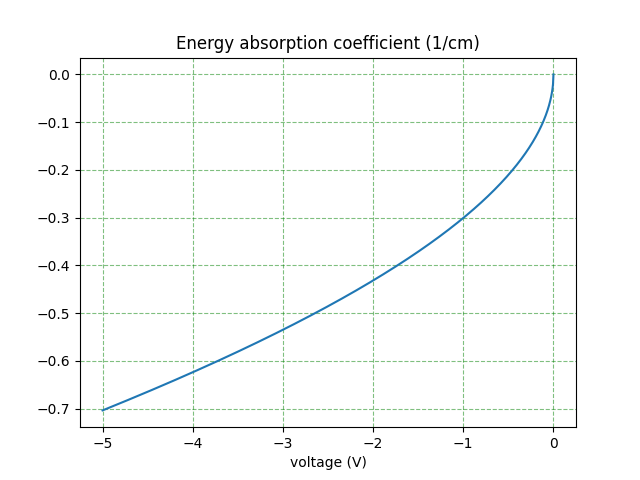
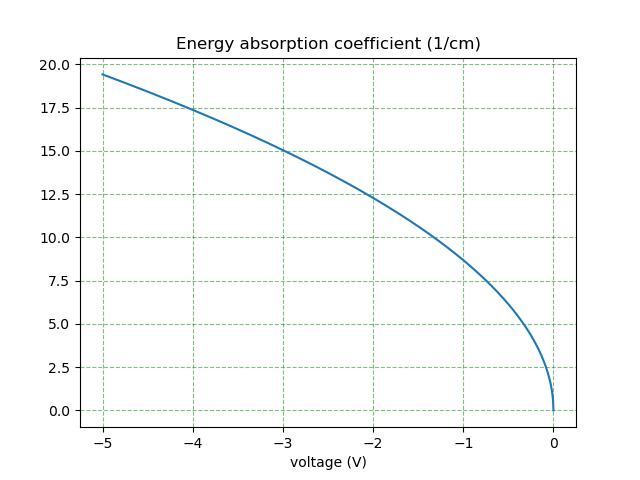
check absorption

diff --git a/eye_test_v2.py b/eye_test_v2.py
@@ -198,7 +198,7 @@ v = driver(f_drive=f_drive,
            Cp=Cpad,
            segment=segment)
 V = np.linspace(-5,0,1000)
-ploting(V,dB(ring_mod.alpha(V)/ring_mod.alpha(0)),x_label="voltage (V)",title="Energy absorption coefficient (1/cm)",filename="alpha_V")
+ploting(V,dB(np.exp(-ring_mod.alpha(V)))-dB(np.exp(-ring_mod.alpha(0))),x_label="voltage (V)",title="Energy absorption coefficient (1/cm)",filename="alpha_V")
     
 V = np.linspace(-5,0,1000)
 if segment==2:
